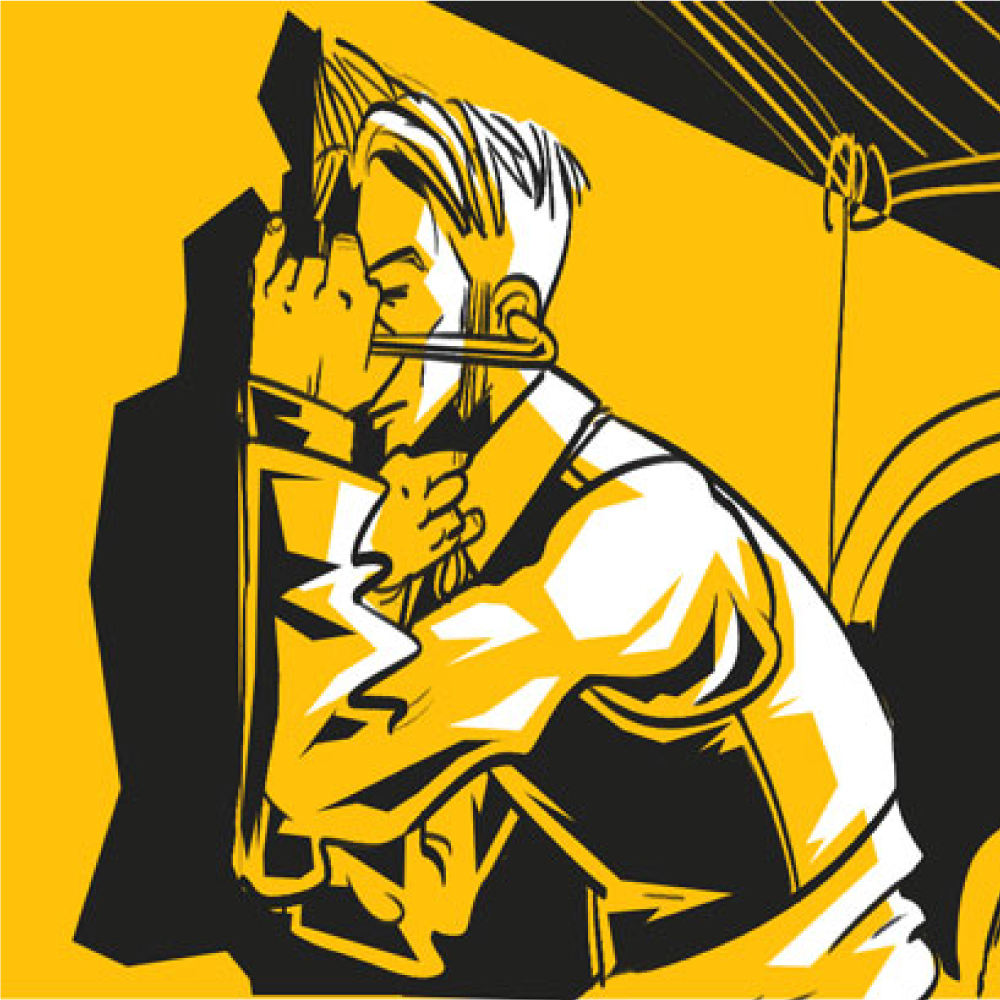
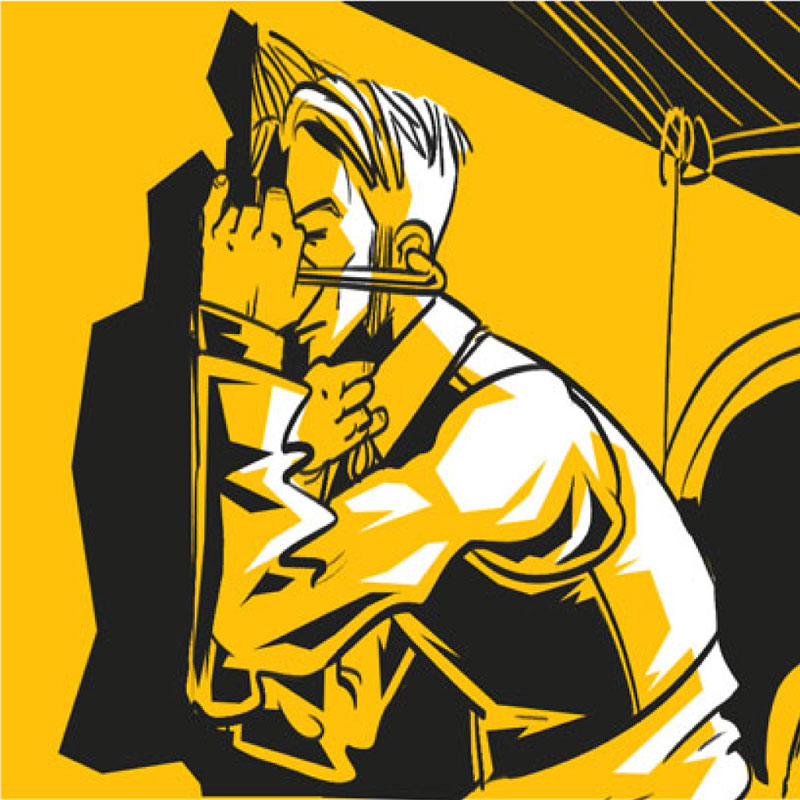
image optimization

diff --git a/lettering.html b/lettering.html
@@ -210,7 +210,7 @@
               
                     <div class="col-sm-5 col-md-8 col-lg-6 branding">
                         <div class="portfolio-item">
-                          <div> <img src="img/portfolio/black-sign-templateBG.png" class="img-responsive"> </a> </div>
+                          <div> <img src="img/portfolio/black-sign-templateBG.jpg" class="img-responsive"> </a> </div>
                         </div>
                     </div>
                     
